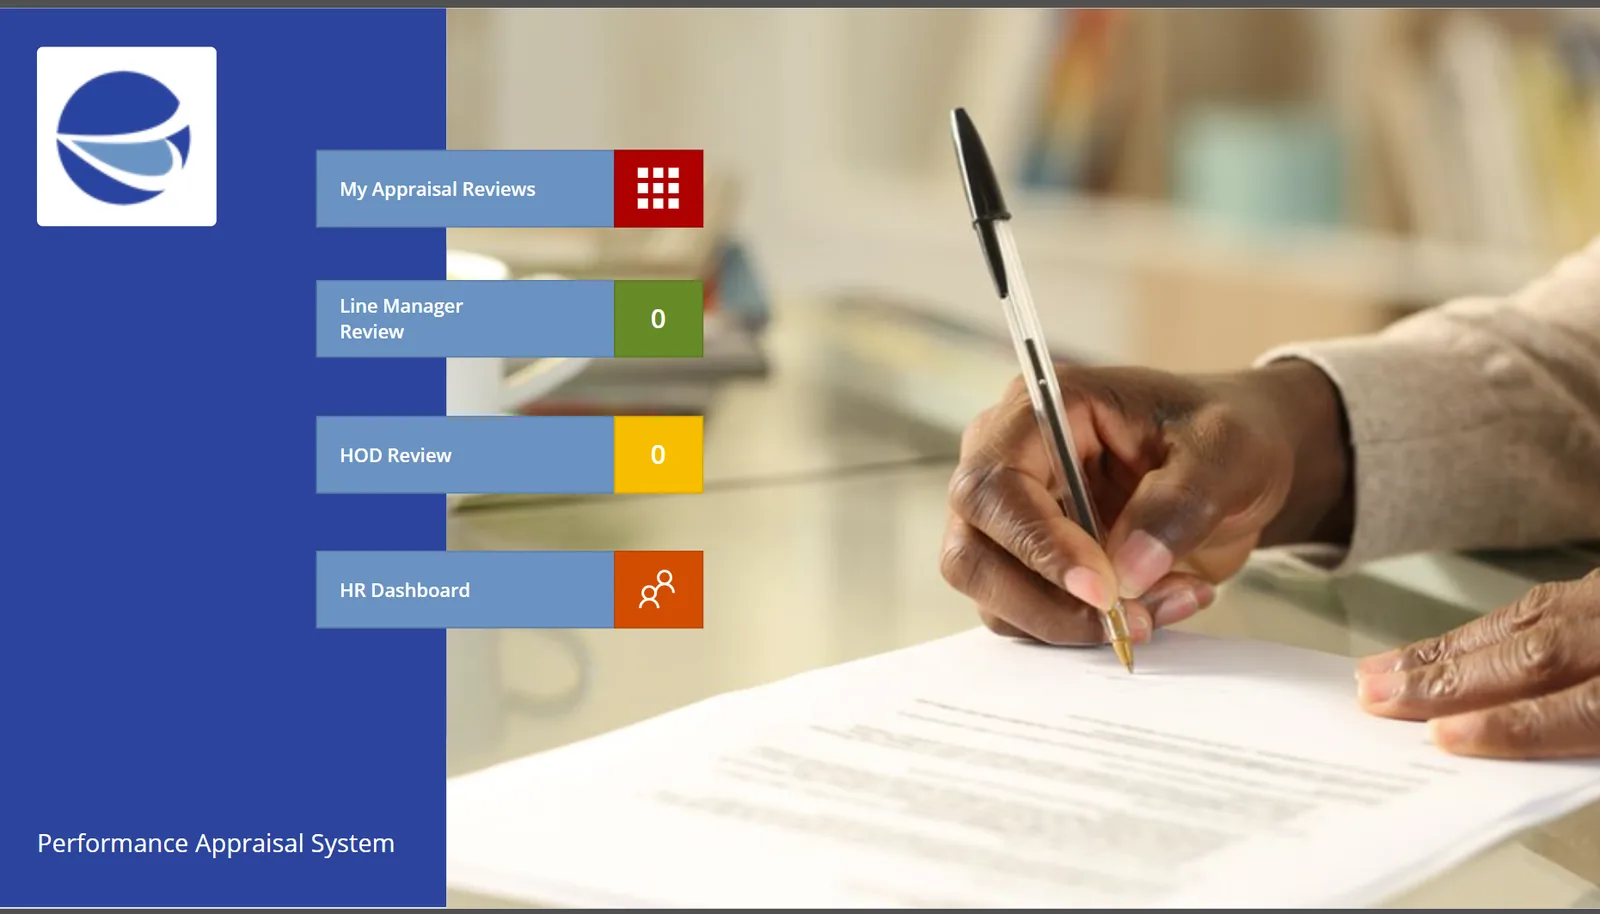
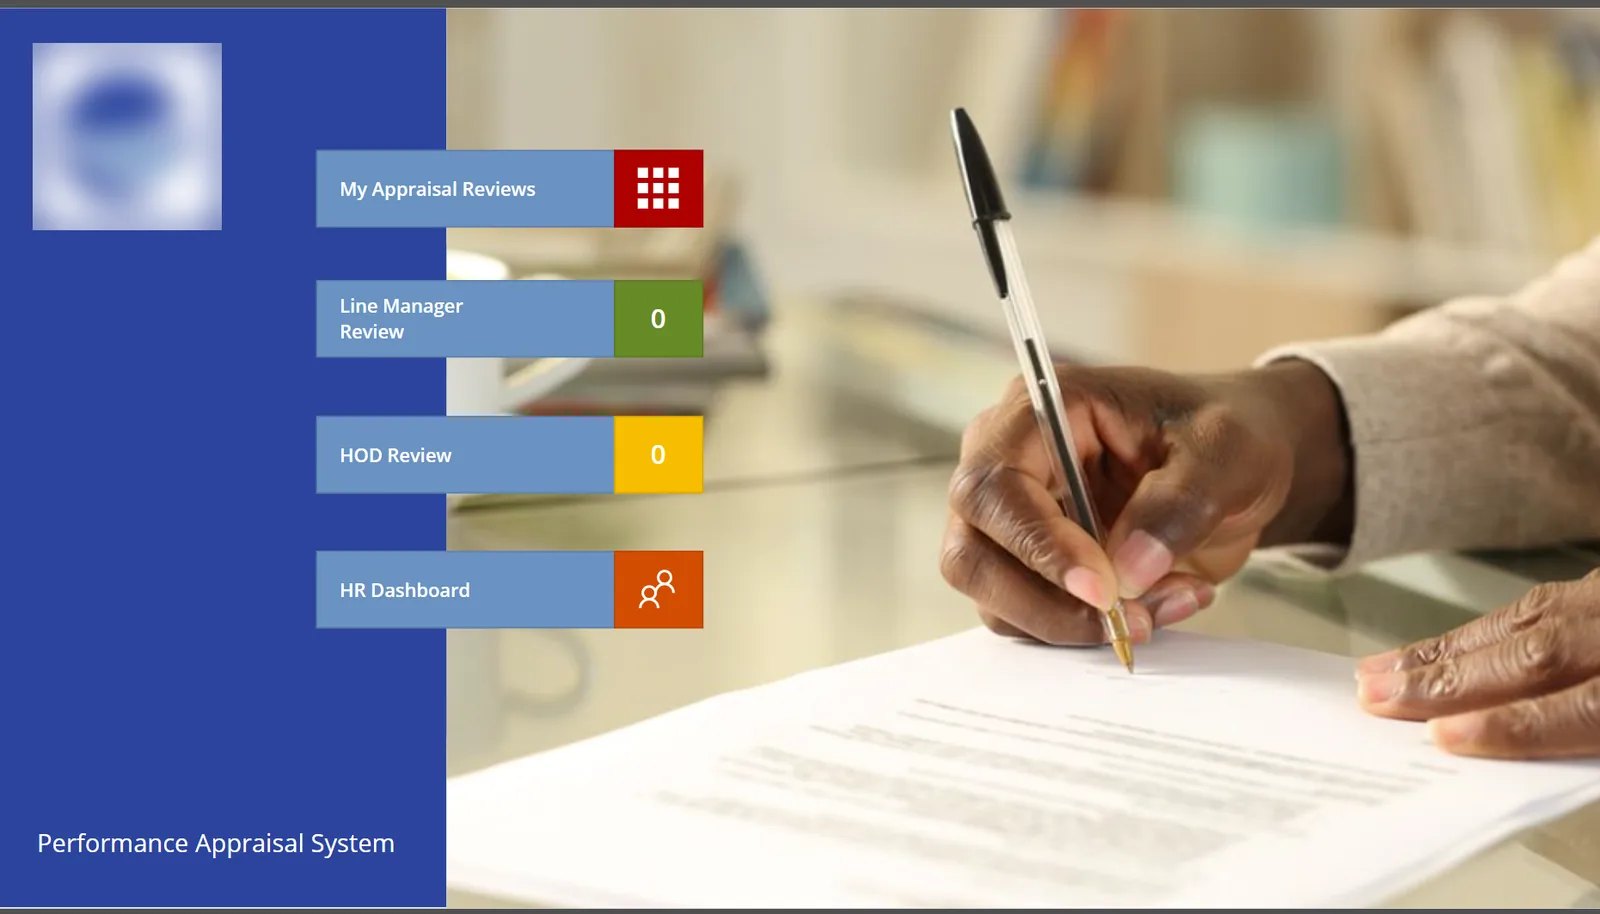
Mark new projects live; blur company branding in screenshots
Claude-Session: https://claude.ai/code/session_017EVbrHJkMP9HbGK9w7YT5o

Changed region(s): [[0.0, 0.0306, 0.1562, 0.2757]]

diff --git a/index.html b/index.html
@@ -1124,16 +1124,16 @@ footer.site a:hover{color:var(--blue-ink)}
   /* Projects. image: optional screenshot path (e.g. "assets/work/helpdesk.png") replaces the illustration.
      mock: which illustration to draw when there is no image. */
   const projects = [
-    {title:"Correspondence Management System", ctx:"Memos & approvals", status:"new", cats:["web"],
+    {title:"Correspondence Management System", ctx:"Memos & approvals", status:"live", cats:["web"],
      before:"Memos and letters printed, signed and carried from office to office, with no record of who has seen what.",
      after:"Memos created, assigned and approved online, with an approval trail, signatures, attachments and a PDF copy.",
      tags:["Memos","Approval trail","Digital signatures","PDF"],
      images:[["assets/work/correspondence.webp","Inbox and memo detail with the approval trail"]]},
-    {title:"Performance Monitoring", ctx:"Team task tracking", status:"new", cats:["web"],
+    {title:"Performance Monitoring", ctx:"Team task tracking", status:"live", cats:["web"],
      desc:"Tracks every task across teams and sectors in one place, with grid, board, calendar and chart views, overdue alerts, checklists, reports and exports.",
      tags:["Dashboards","Kanban board","Reports","Light & dark mode"],
      images:[["assets/work/performance-dashboard.webp","Dashboard with task status and overdue work"],["assets/work/performance-charts.webp","Charts by status, priority and team member"],["assets/work/performance-newtask.webp","Creating a new task"]]},
-    {title:"Performance Appraisal System", ctx:"HR · Power Platform", status:"new", cats:["power"],
+    {title:"Performance Appraisal System", ctx:"HR · Power Platform", status:"live", cats:["power"],
      before:"Appraisal forms filled in on paper and passed between staff, line managers, heads of department and HR.",
      after:"Each review stage runs in one app, with scoring, rating scales, HR controls for appraisal periods and a PDF of the final appraisal.",
      tags:["Power Apps","Power Automate","SharePoint","HR"],
